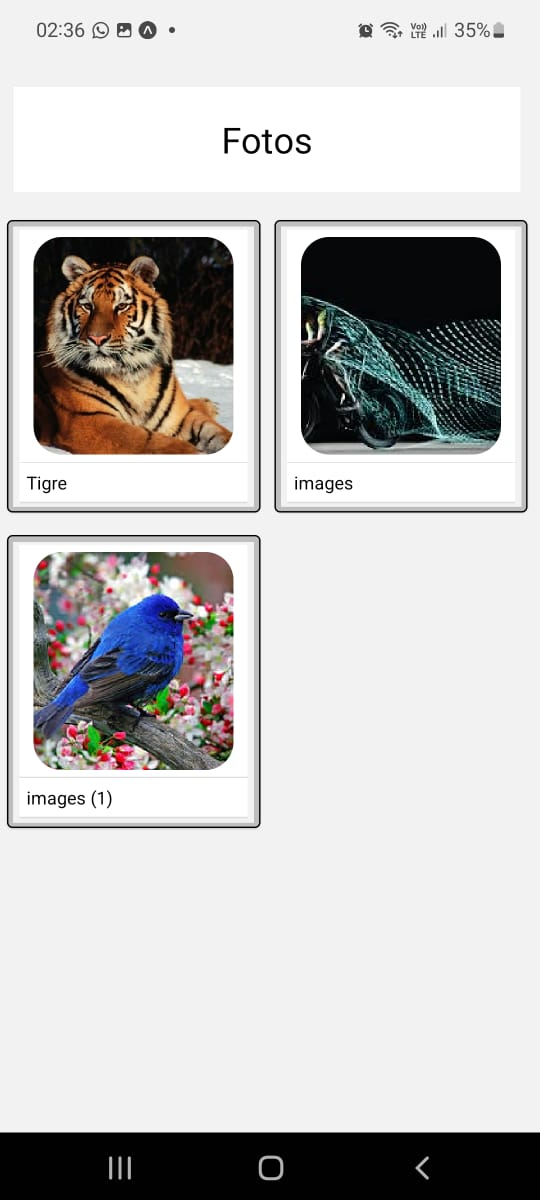
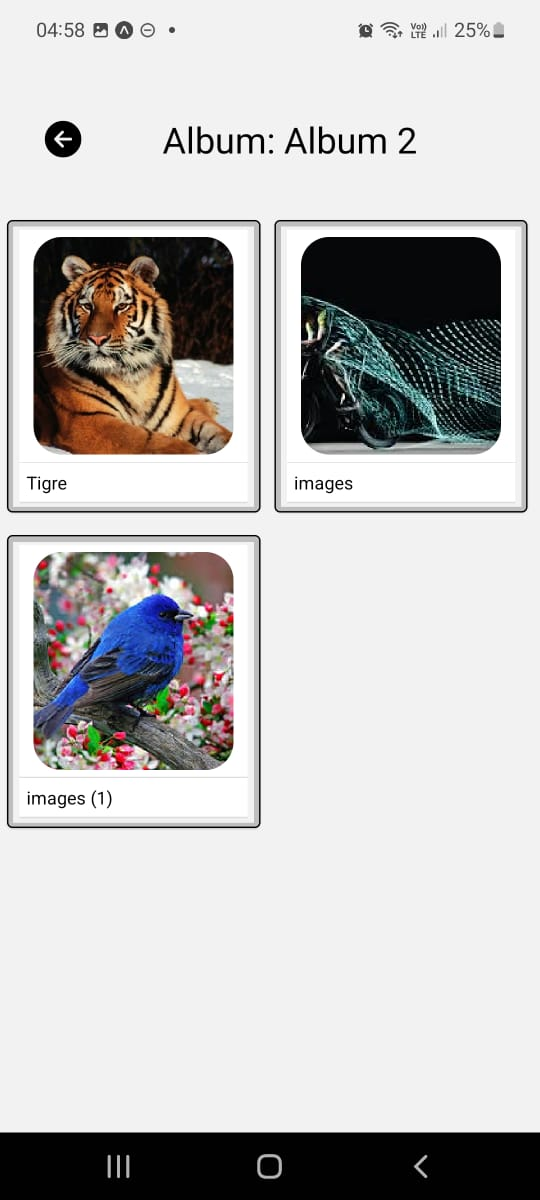
Entrega

diff --git a/components/PhotoList.js b/components/PhotoList.js
@@ -1,8 +1,9 @@
 import React, { useState, useEffect } from 'react';
-import { ActivityIndicator,SafeAreaView, View, FlatList, StyleSheet, Text, StatusBar } from 'react-native';
+import { ActivityIndicator, SafeAreaView, View, FlatList, StyleSheet, Text, StatusBar } from 'react-native';
 import axios from 'axios';
 import PhotoDetail from './PhotoDetail';
 import GlobalStyleSheet from './GlobalStyleSheet';
+import BackButton from './BackButton';
 
 const PhotoList = (props) => {
   const [photos, setPhotos] = useState(null);
@@ -36,7 +37,8 @@ const PhotoList = (props) => {
   const renderListHeader = () => {
     return (
       <View style={GlobalStyleSheet.headerStyle} accessibilityRole="header">
-        <Text style={GlobalStyleSheet.titleStyle}>Fotos</Text>
+        <BackButton navigation={props.navigation} />
+        <Text style={GlobalStyleSheet.titleStyle}>Album: {props.route.params.albumName}</Text>
       </View>
     );
   }

diff --git a/components/PhotoShow.js b/components/PhotoShow.js
@@ -1,12 +1,15 @@
 import React from 'react';
 import { Text, View, Image } from 'react-native';
 import GlobalStyleSheet from './GlobalStyleSheet';
+import FontAwesome from '@expo/vector-icons/FontAwesome';
+import BackButton from './BackButton';
 
-const PhotoShow = ({ route }) => {
-    const { photoTitle, photoUrl } = route.params;
+const PhotoShow = ({ route, navigation }) => {
+  const { photoTitle, photoUrl } = route.params;
   return (
     <View style={GlobalStyleSheet.fullContainerStyle}>
       <View style={GlobalStyleSheet.headerStyle} >
+        <BackButton navigation={navigation}/>
         <Text style={GlobalStyleSheet.titleStyle}>Titulo: {photoTitle}</Text>
       </View>
       <Image style={GlobalStyleSheet.photoShowStyle}

diff --git a/components/GlobalStyleSheet.js b/components/GlobalStyleSheet.js
@@ -27,24 +27,25 @@ export default StyleSheet.create({
     borderBottomWidth: 0,
   },  
   headerStyle: {
-    flex: 0.2,
     marginTop: StatusBar.currentHeight || 0,
     padding: 20,
     margin: 10,
     alignItems: 'center',
+    flexDirection: 'row',
   },
 
   listStyle: {
     flex: .8,
   },
   albumStyle: {
-    backgroundColor: '#f9c2ff',
     padding: 20,
     marginVertical: 8,
     marginHorizontal: 16,
   },
   titleStyle: {
+    flexGrow: 1,
     fontSize: 32,
+    textAlign: 'center' 
   },
   cardTitleStyle: {
     fontSize: 16,

diff --git a/components/BackButton.js b/components/BackButton.js
@@ -1,0 +1,16 @@
+import React from 'react';
+import { Text, TouchableOpacity } from 'react-native';
+import FontAwesome from '@expo/vector-icons/FontAwesome';
+import Ionicons from '@expo/vector-icons/Ionicons';
+
+const BackButton = ({ navigation }) => {
+
+    return (
+        <Ionicons name="arrow-back-circle"
+            color={"black"}            
+            size={32}
+            onPress={() => navigation.goBack()}
+        />);
+};
+
+export default BackButton;

diff --git a/components/AlbumThumbnail.js b/components/AlbumThumbnail.js
@@ -2,7 +2,6 @@ import React, { useState, useEffect } from 'react';
 import { ActivityIndicator, Text, View, Image, Linking } from 'react-native';
 import Card from './Card';
 import CardSection from './CardSection';
-import Button from './Button';
 import axios from 'axios';
 import GlobalStyleSheet from './GlobalStyleSheet';
 const AlbumThumbnail = ({ albumId }) => {

diff --git a/components/AlbumDetail.js b/components/AlbumDetail.js
@@ -9,7 +9,7 @@ const AlbumDetail = ({ navigation, album }) => {
 
   return (
     <TouchableHighlight
-      onPress={() => navigation.navigate('photoList', { albumId: album.id })}
+      onPress={() => navigation.navigate('photoList', { albumId: album.id, albumName: album.title._content })}
       underlayColor="white">
       <Card>
         <CardSection>
